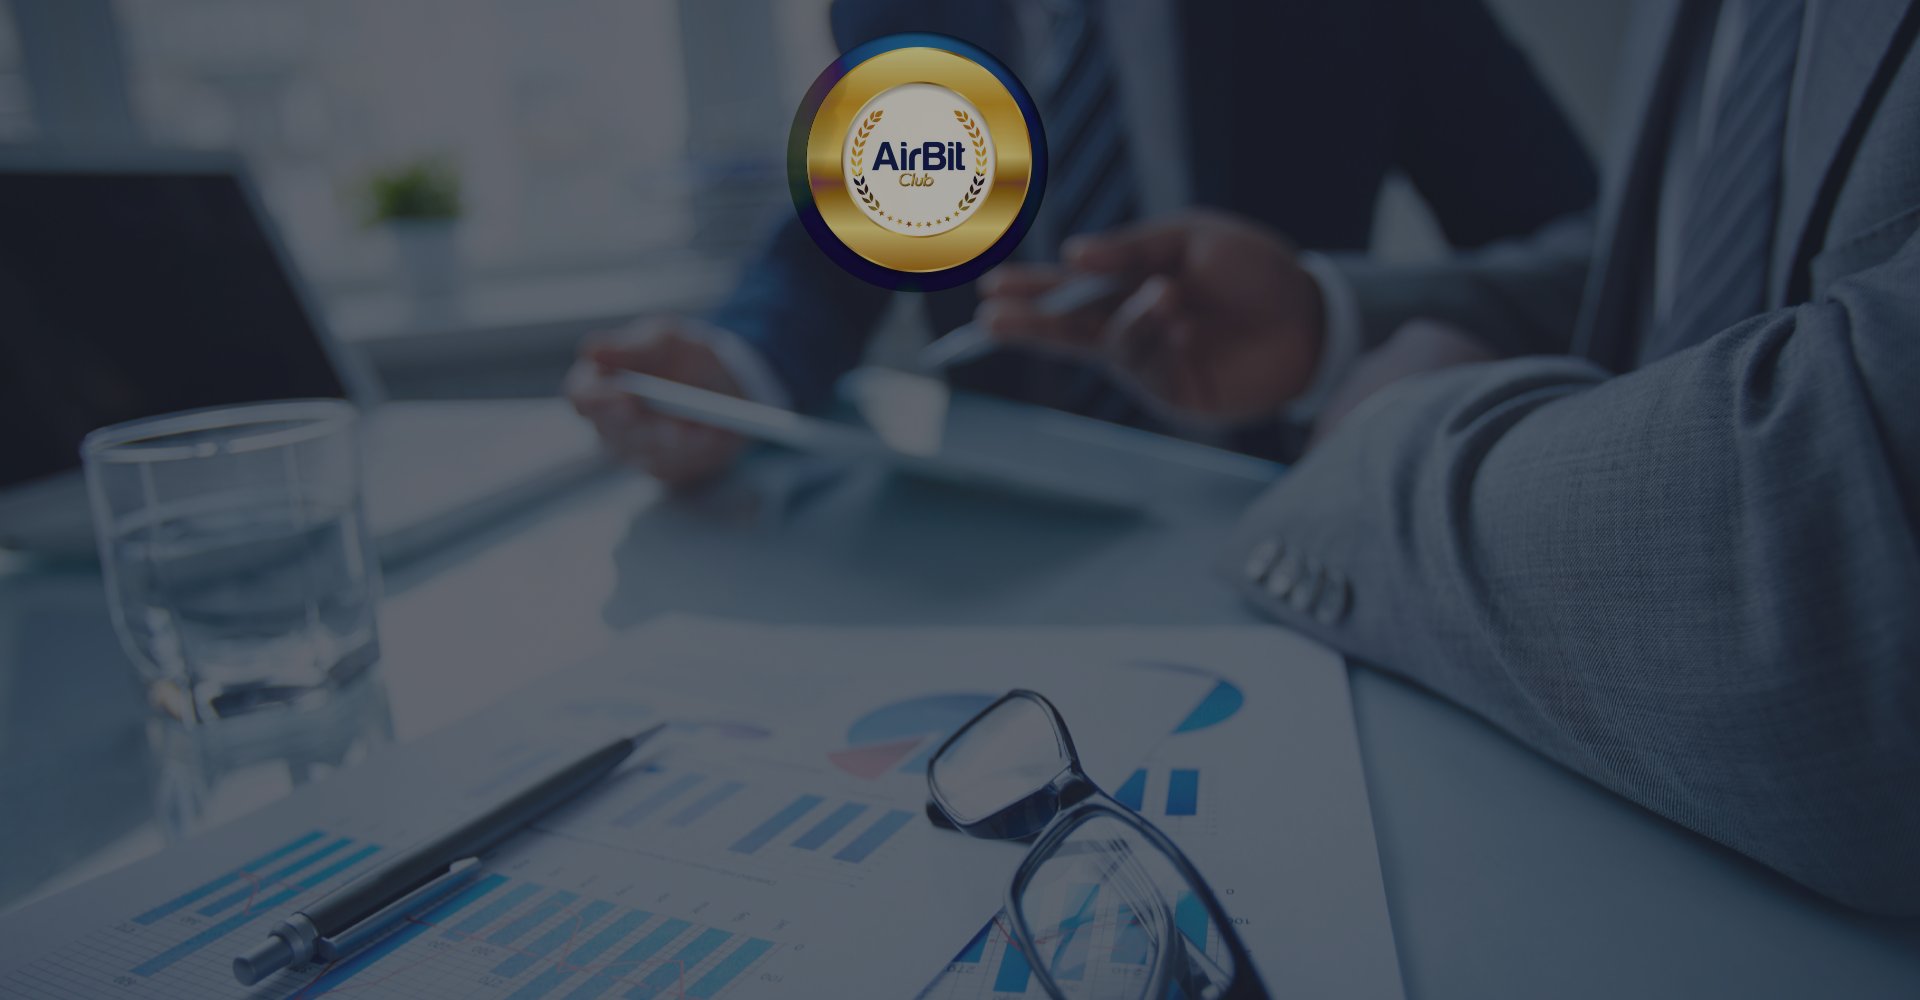
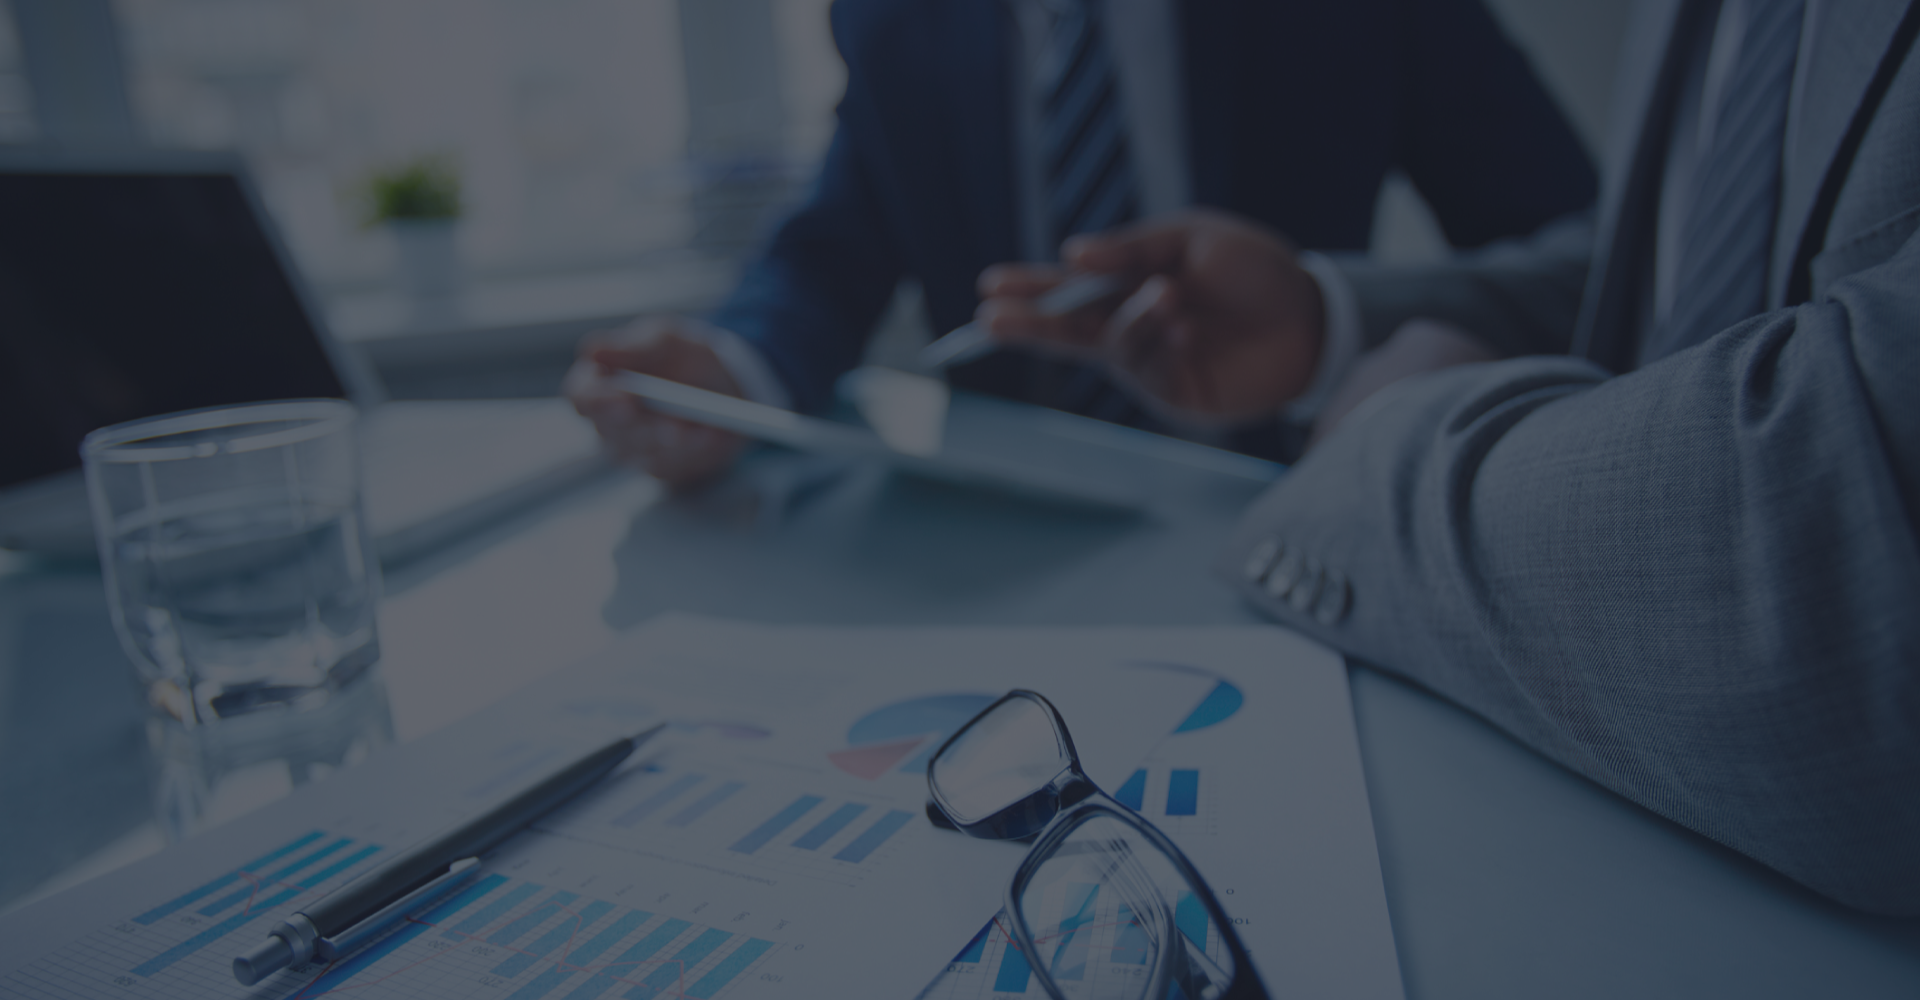
LOGOGOGOG

Changed region(s): [[0.4062, 0.031, 0.5625, 0.31]]

diff --git a/index.html b/index.html
@@ -9,6 +9,23 @@
             <link rel="shortcut icon" type="image/png" href="static/img/0000/0006/1869/61869914.pphrv60if6.16x16.png"/>
                 <style type="text/css">
     /* cyrillic-ext */
+	
+	#headerMain {
+  width:920px;
+  height: 195px;
+  margin:0px auto;
+  z-index:0;
+}
+ 
+#header {
+  width:920px;
+  height: 195px;
+  background: url(../img/bg-header.jpg) no-repeat;
+  position: fixed;
+  z-index: 9999;
+  padding: 20px;
+}
+	
     @font-face {
         font-family: 'Roboto';
         font-style: normal;
@@ -199,6 +216,12 @@
 <div class="show-for-large">
     
 </div>
+
+
+ 
+ <div id="header">
+ <img src="qtChuJAlFvdCHtzqY70tPjpI7Sw=/fit-in/2000x/center/top/4a0fc4c70ef33f6.s.siteapi.org/img/logoheader-ee061b7c911a42a044d7ba6480254ebcd31c574311d7efff402ddc7d861c02be.png" alt="Air-Bit-Club">
+ </div>
 
 
 <div class="site__layout">
